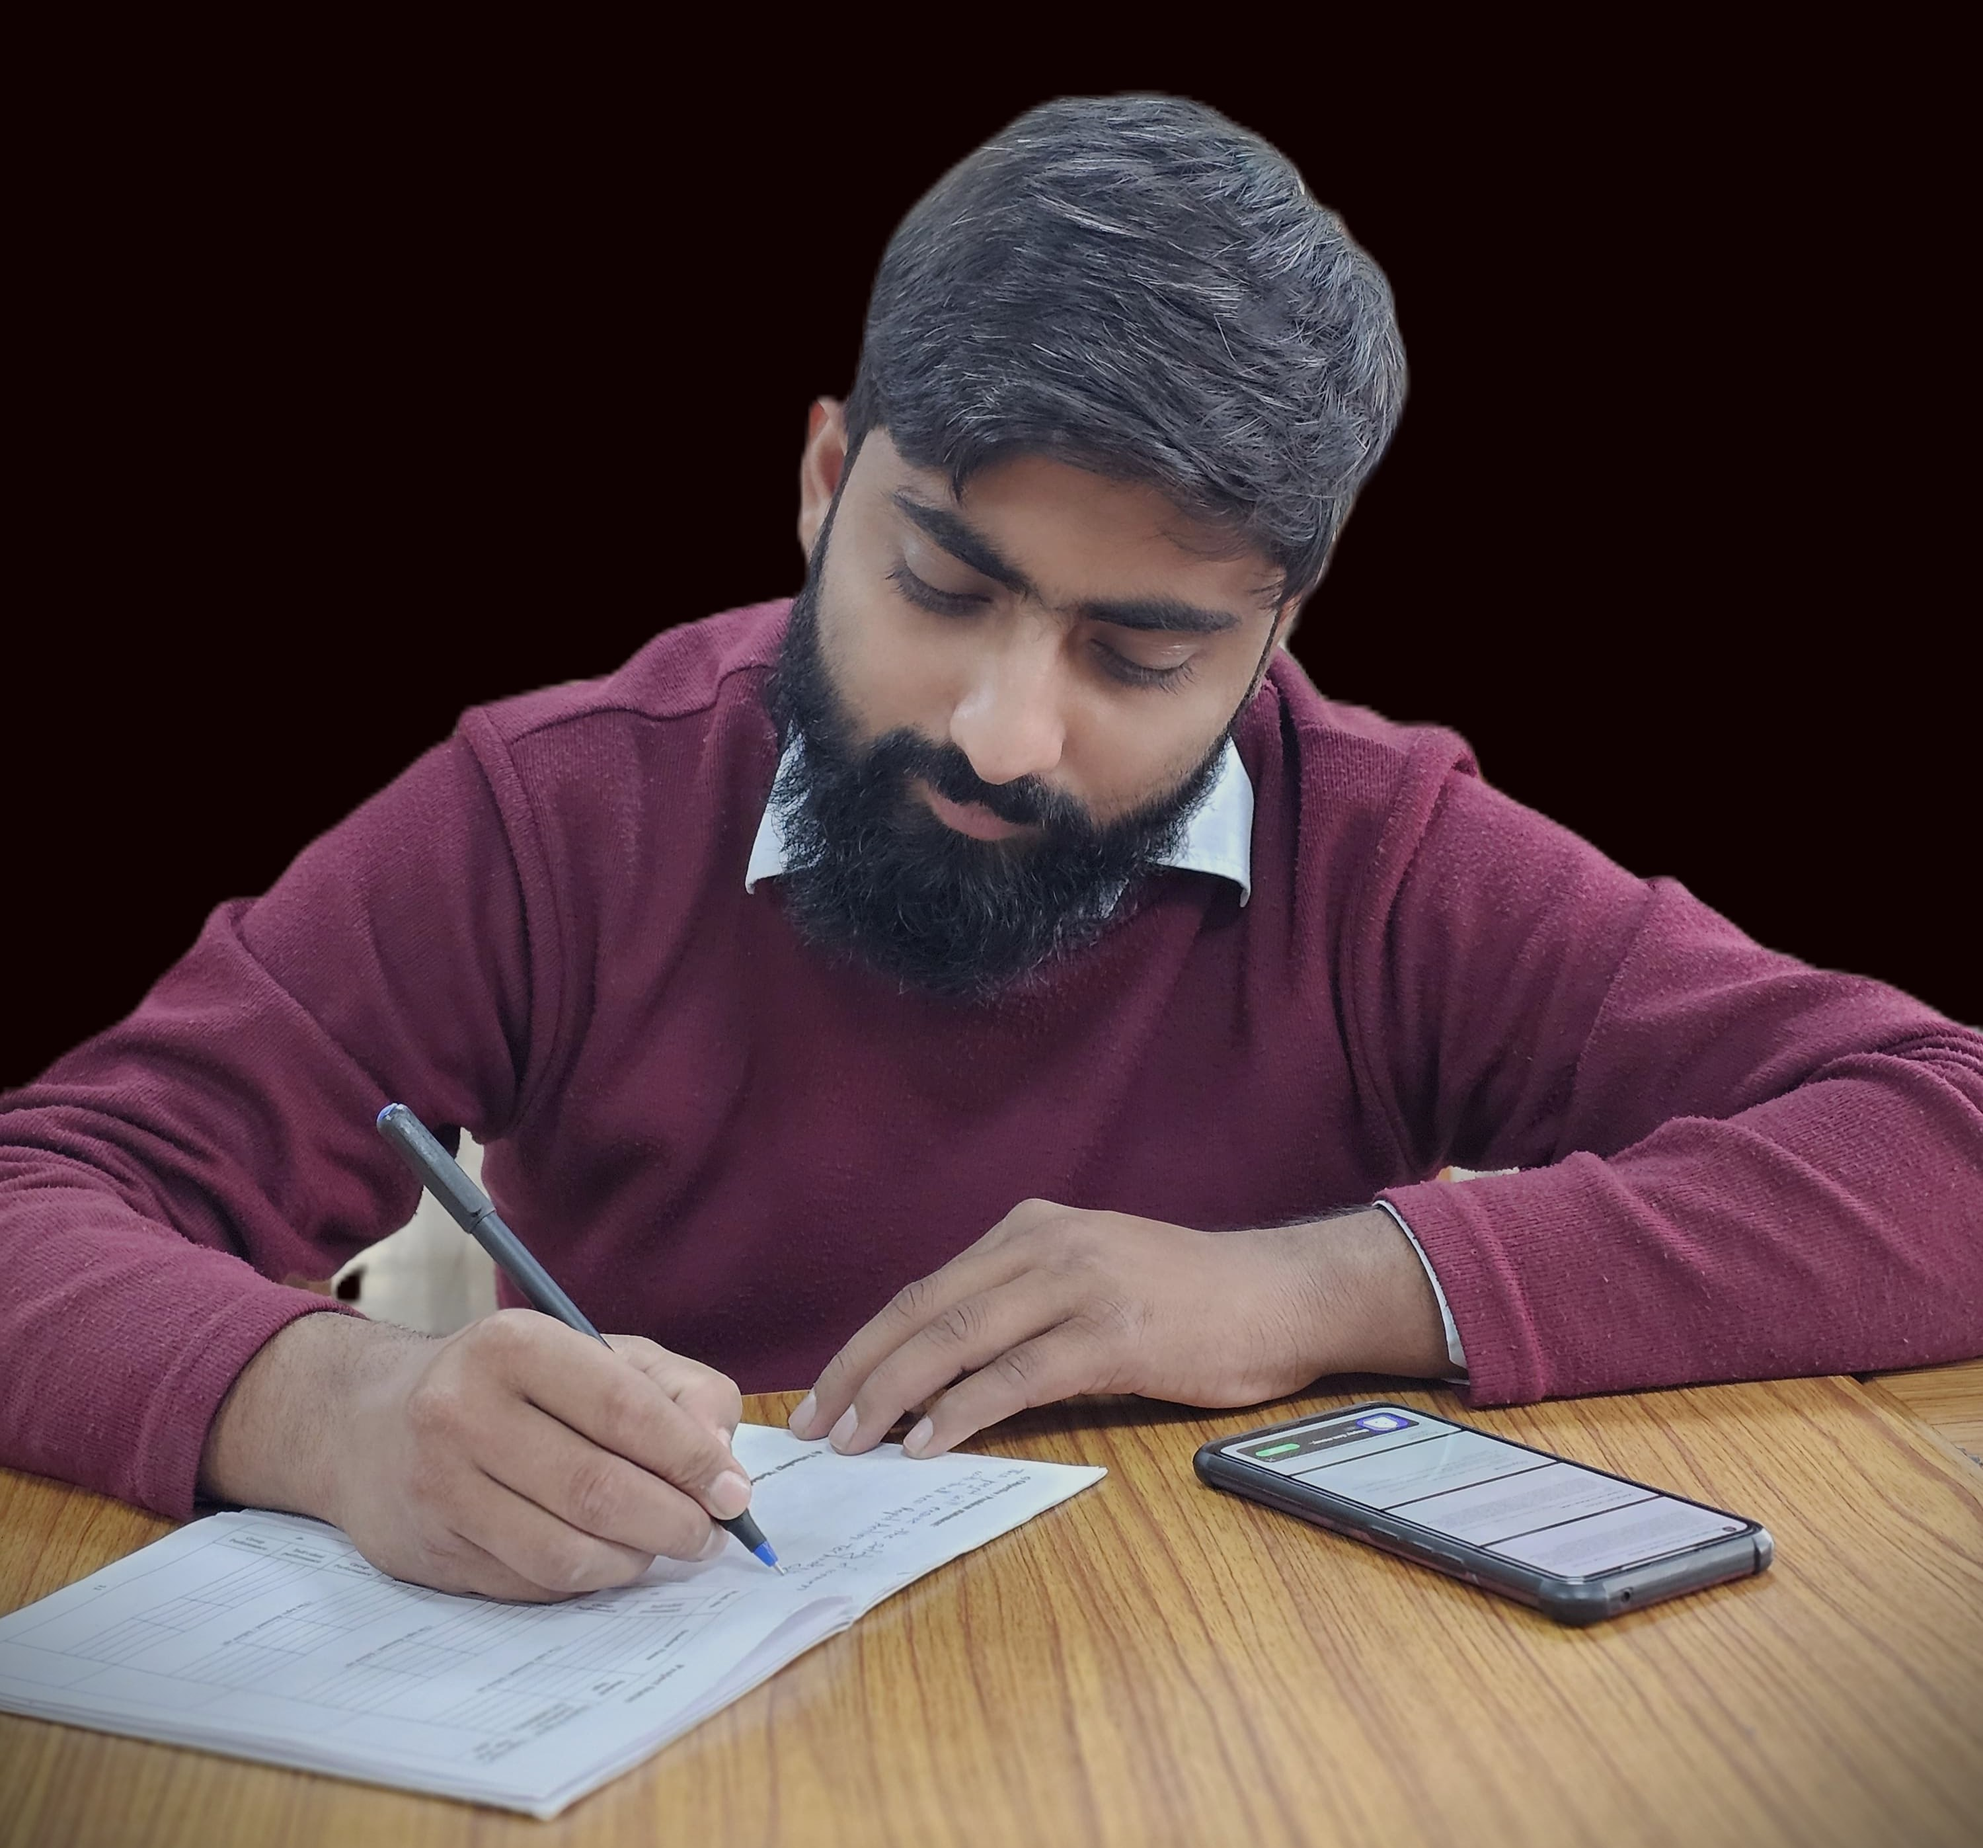
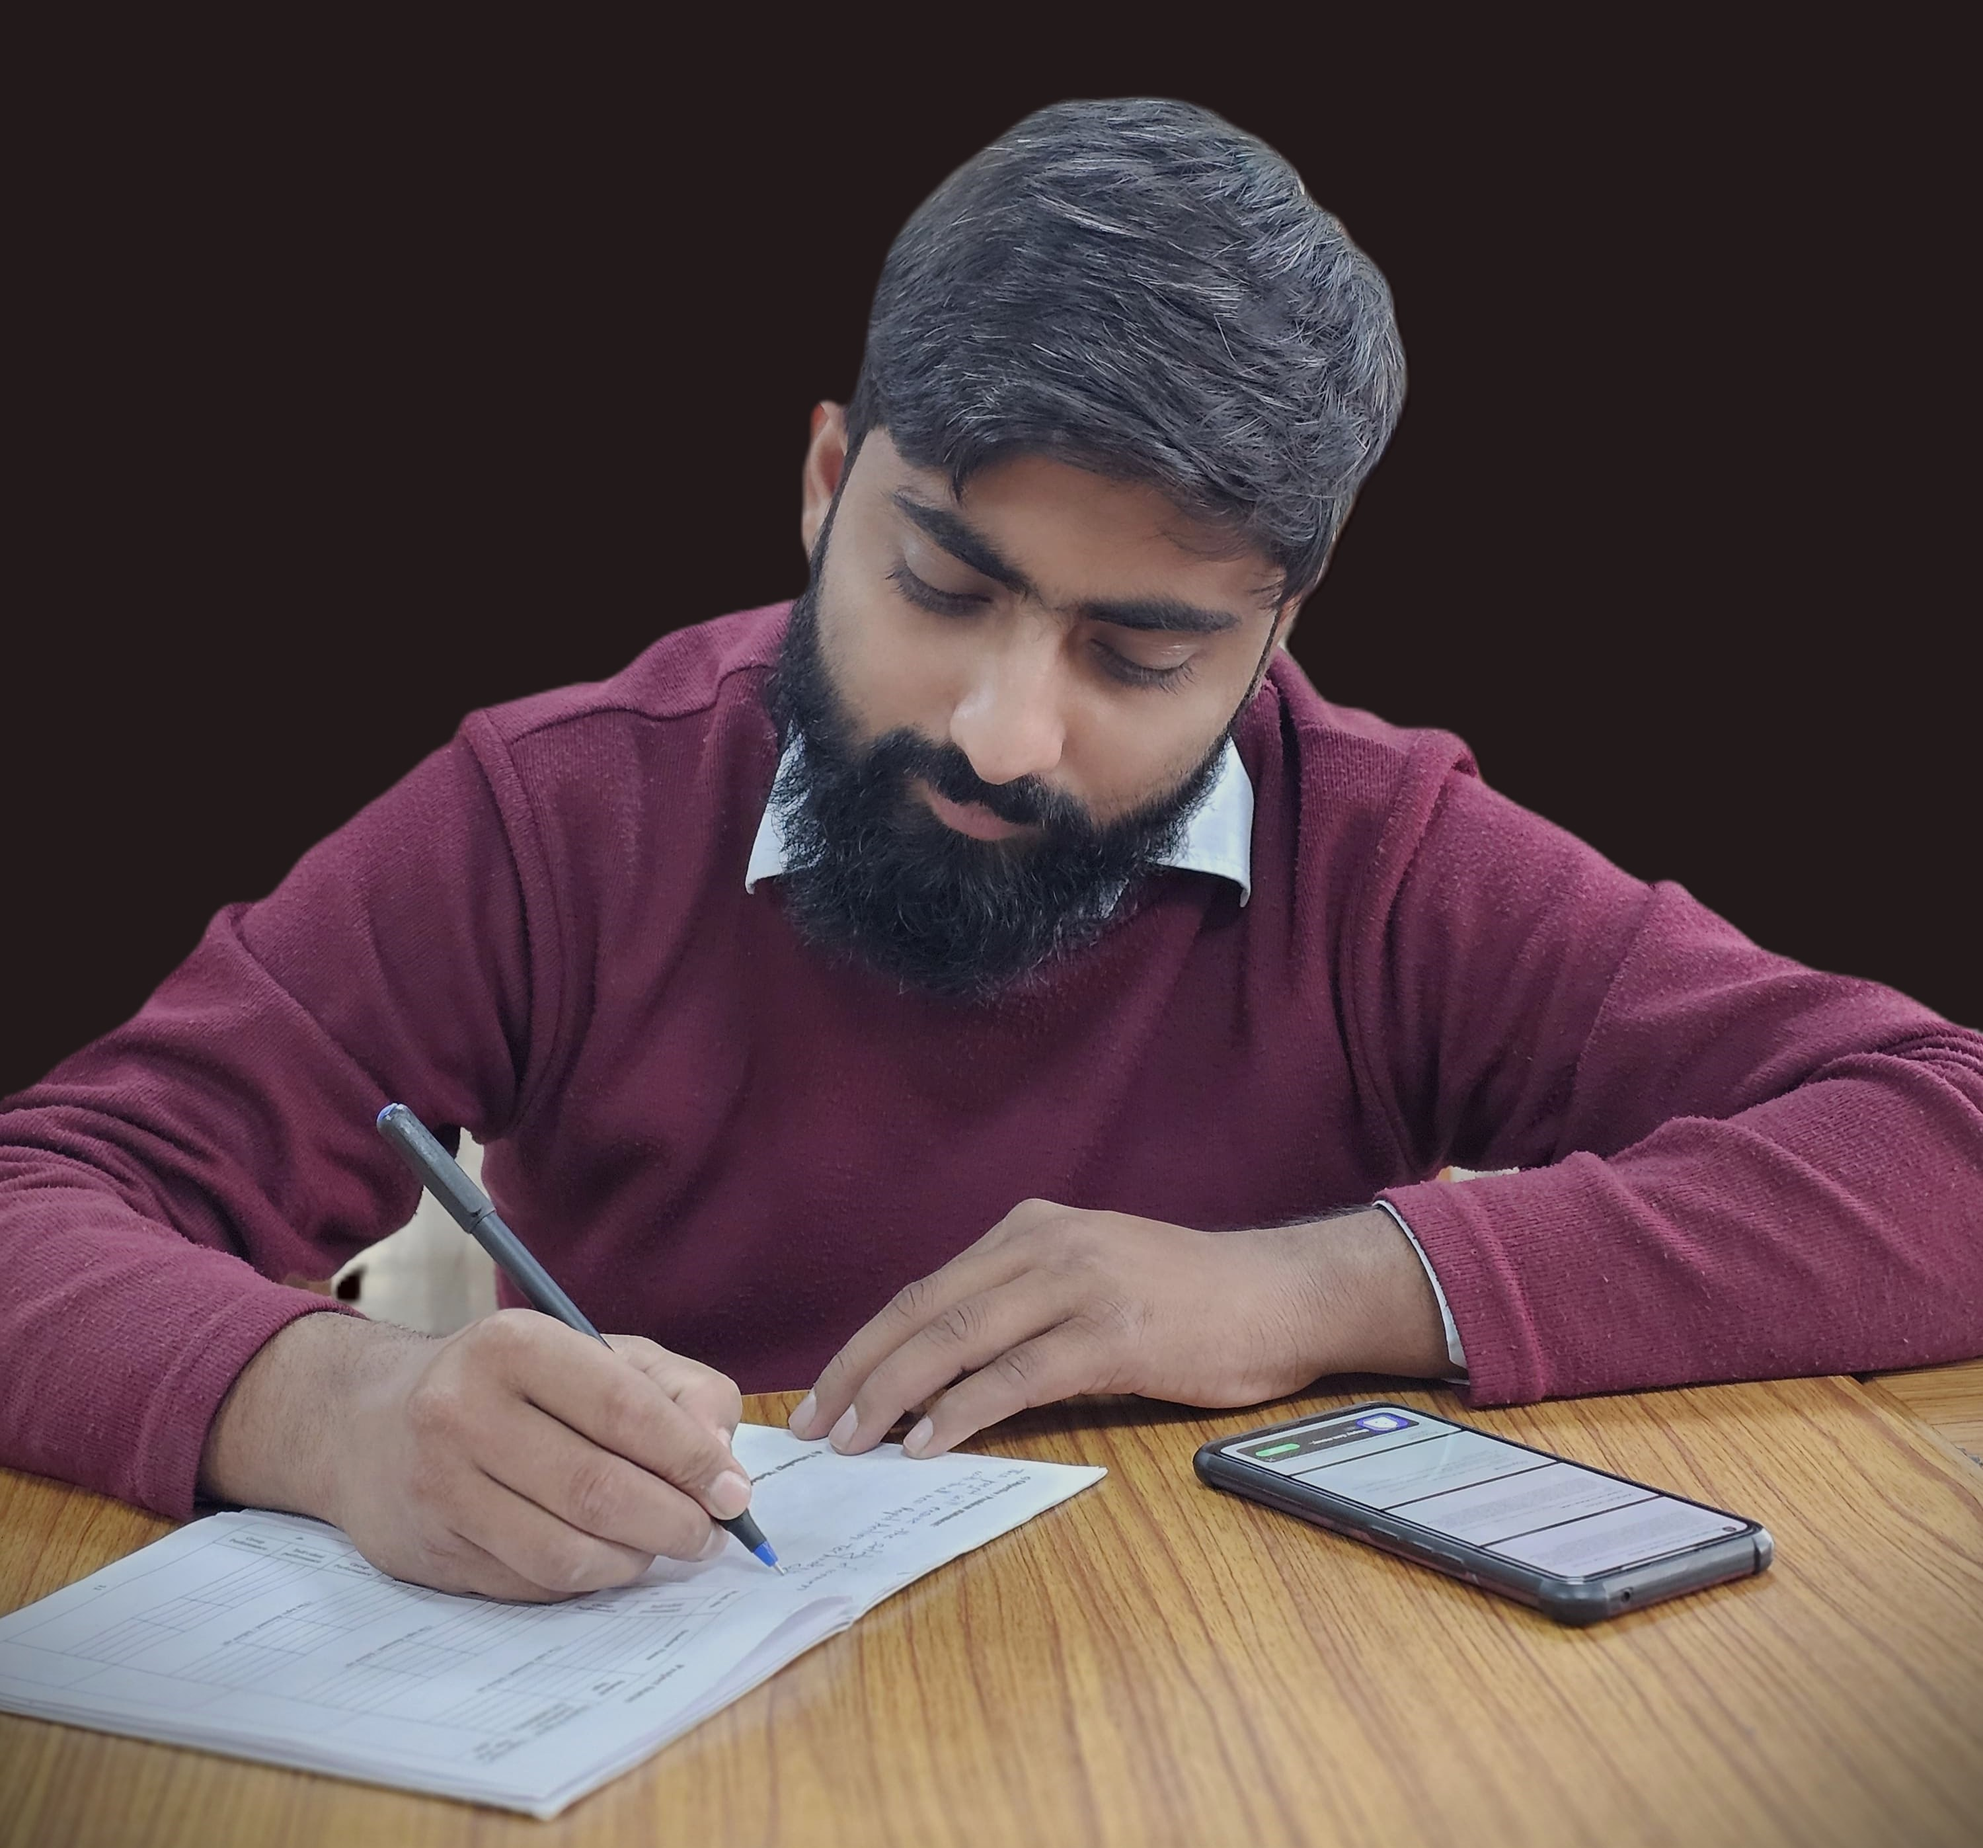
just add photo

diff --git a/style.css b/style.css
@@ -211,6 +211,8 @@ ul {
   margin-left: 23rem;
   margin-top: 1.5rem;
 }
+
+/*education section */
 #education{
   height: auto;
   width: 100vw;
@@ -221,4 +223,18 @@ ul {
   font-size: 2rem;
   padding: 5rem;
   color: #666666;
+}
+.imgclass img{
+  height: 60vh;
+  border-radius: 30px;
+  -webkit-filter: blur(3px);
+	filter: blur(3px);
+	-webkit-transition: .3s ease-in-out;
+	transition: .3s ease-in-out;
+
+	
+}
+.imgclass img:hover {
+	-webkit-filter: blur(0);
+	filter: blur(0);
 }

diff --git a/index.html b/index.html
@@ -105,9 +105,12 @@
         >Download CV
       </a>
     </div><!--Seducation -->
+
     <div id="education">
       <h2>Education</h2>
-      <h1>loding/.....next</h1>
+      <div class="
+      imgclass"><img src="shoaib124.jpg" alt="not found"></div>
+      
       </div>
     
     <script src="https://unpkg.com/typed.js@2.1.0/dist/typed.umd.js"></script>
